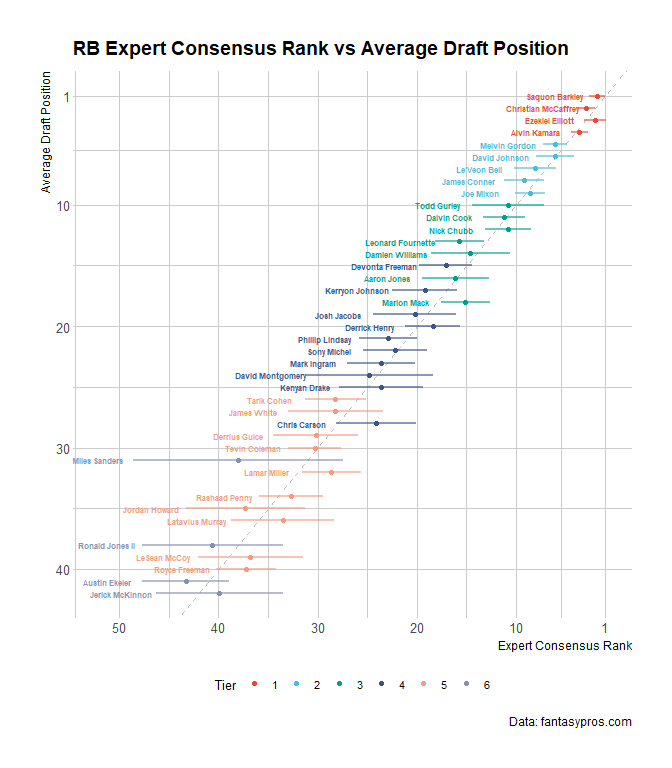
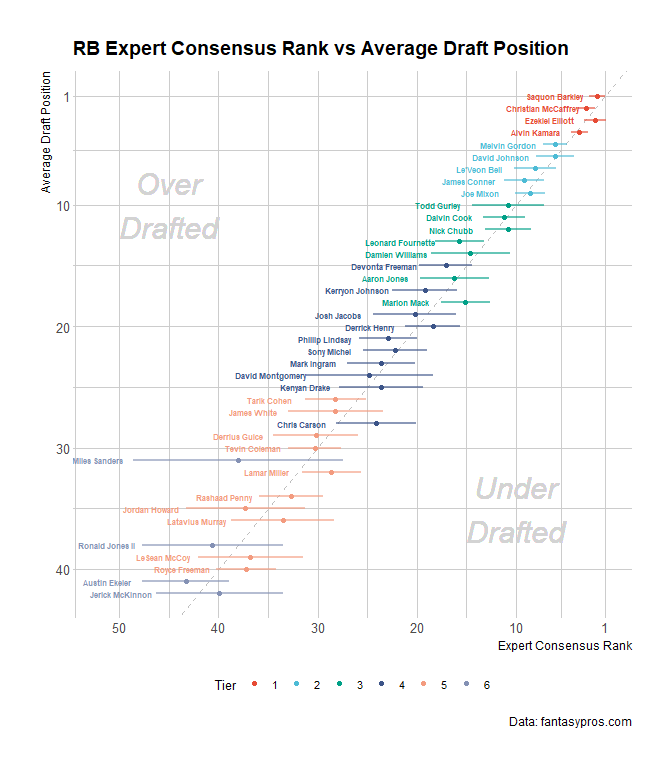
update chart

diff --git a/docs/index.html b/docs/index.html
@@ -96,46 +96,52 @@
 <a class="sourceLine" id="cb3-7" title="7"><span class="st">  </span><span class="kw">ggplot</span>(</a>
 <a class="sourceLine" id="cb3-8" title="8">    <span class="kw">aes</span>(<span class="dt">x =</span> avg, <span class="dt">y =</span> adp, <span class="dt">colour =</span> <span class="kw"><a href="https://www.rdocumentation.org/packages/base/topics/factor">factor</a></span>(tier), <span class="dt">label =</span> player)</a>
 <a class="sourceLine" id="cb3-9" title="9">    ) <span class="op">+</span></a>
-<a class="sourceLine" id="cb3-10" title="10"><span class="st">  </span><span class="kw">geom_errorbarh</span>(</a>
-<a class="sourceLine" id="cb3-11" title="11">    <span class="kw">aes</span>(<span class="dt">xmin =</span> avg <span class="op">-</span><span class="st"> </span>std_dev, <span class="dt">xmax =</span> avg <span class="op">+</span><span class="st"> </span>std_dev), </a>
-<a class="sourceLine" id="cb3-12" title="12">    <span class="dt">height =</span> <span class="dv">0</span>, </a>
-<a class="sourceLine" id="cb3-13" title="13">    <span class="dt">alpha =</span> <span class="fl">0.6</span>, </a>
-<a class="sourceLine" id="cb3-14" title="14">    <span class="dt">size =</span> <span class="fl">0.9</span>,  </a>
-<a class="sourceLine" id="cb3-15" title="15">    <span class="dt">show.legend =</span> <span class="ot">FALSE</span></a>
-<a class="sourceLine" id="cb3-16" title="16">    ) <span class="op">+</span></a>
-<a class="sourceLine" id="cb3-17" title="17"><span class="st">  </span><span class="kw">geom_point</span>(<span class="dt">size =</span> <span class="fl">1.5</span>) <span class="op">+</span></a>
-<a class="sourceLine" id="cb3-18" title="18"><span class="st">  </span><span class="kw">scale_x_reverse</span>(</a>
-<a class="sourceLine" id="cb3-19" title="19">    <span class="dt">breaks =</span> <span class="kw"><a href="https://www.rdocumentation.org/packages/base/topics/c">c</a></span>(<span class="dv">1</span>, <span class="kw"><a href="https://www.rdocumentation.org/packages/base/topics/seq">seq</a></span>(<span class="dv">10</span>,<span class="dv">70</span>, <span class="dv">10</span>))</a>
-<a class="sourceLine" id="cb3-20" title="20">    ) <span class="op">+</span></a>
-<a class="sourceLine" id="cb3-21" title="21"><span class="st">  </span><span class="kw">scale_y_reverse</span>(</a>
-<a class="sourceLine" id="cb3-22" title="22">    <span class="dt">breaks =</span> <span class="kw"><a href="https://www.rdocumentation.org/packages/base/topics/c">c</a></span>(<span class="dv">1</span>, <span class="kw"><a href="https://www.rdocumentation.org/packages/base/topics/seq">seq</a></span>(<span class="dv">10</span>,<span class="dv">60</span>, <span class="dv">10</span>))</a>
-<a class="sourceLine" id="cb3-23" title="23">    ) <span class="op">+</span></a>
-<a class="sourceLine" id="cb3-24" title="24"><span class="st">  </span>ggsci<span class="op">::</span><span class="kw"><a href="https://www.rdocumentation.org/packages/ggsci/topics/scale_npg">scale_color_npg</a></span>() <span class="op">+</span></a>
-<a class="sourceLine" id="cb3-25" title="25"><span class="st">  </span>hrbrthemes<span class="op">::</span><span class="kw"><a href="https://www.rdocumentation.org/packages/hrbrthemes/topics/theme_ipsum_rc">theme_ipsum_rc</a></span>(</a>
-<a class="sourceLine" id="cb3-26" title="26">    <span class="dt">base_size =</span> <span class="dv">10</span>, </a>
-<a class="sourceLine" id="cb3-27" title="27">    <span class="dt">axis_title_size =</span> <span class="dv">9</span>,</a>
-<a class="sourceLine" id="cb3-28" title="28">    <span class="dt">plot_title_size =</span> <span class="dv">14</span></a>
+<a class="sourceLine" id="cb3-10" title="10"><span class="st">  </span><span class="kw">geom_abline</span>(</a>
+<a class="sourceLine" id="cb3-11" title="11">    <span class="dt">slop =</span> <span class="dv">1</span>, </a>
+<a class="sourceLine" id="cb3-12" title="12">    <span class="dt">intercept =</span> <span class="dv">0</span>,</a>
+<a class="sourceLine" id="cb3-13" title="13">    <span class="dt">linetype =</span> <span class="dv">2</span>,</a>
+<a class="sourceLine" id="cb3-14" title="14">    <span class="dt">color =</span> <span class="st">"grey"</span></a>
+<a class="sourceLine" id="cb3-15" title="15">   ) <span class="op">+</span></a>
+<a class="sourceLine" id="cb3-16" title="16"><span class="st">  </span><span class="kw">geom_errorbarh</span>(</a>
+<a class="sourceLine" id="cb3-17" title="17">    <span class="kw">aes</span>(<span class="dt">xmin =</span> avg <span class="op">-</span><span class="st"> </span>std_dev, <span class="dt">xmax =</span> avg <span class="op">+</span><span class="st"> </span>std_dev), </a>
+<a class="sourceLine" id="cb3-18" title="18">    <span class="dt">height =</span> <span class="dv">0</span>, </a>
+<a class="sourceLine" id="cb3-19" title="19">    <span class="dt">alpha =</span> <span class="fl">0.6</span>, </a>
+<a class="sourceLine" id="cb3-20" title="20">    <span class="dt">size =</span> <span class="fl">0.9</span>,  </a>
+<a class="sourceLine" id="cb3-21" title="21">    <span class="dt">show.legend =</span> <span class="ot">FALSE</span></a>
+<a class="sourceLine" id="cb3-22" title="22">    ) <span class="op">+</span></a>
+<a class="sourceLine" id="cb3-23" title="23"><span class="st">  </span><span class="kw">geom_point</span>(<span class="dt">size =</span> <span class="fl">1.5</span>) <span class="op">+</span></a>
+<a class="sourceLine" id="cb3-24" title="24"><span class="st">  </span><span class="kw">scale_x_reverse</span>(</a>
+<a class="sourceLine" id="cb3-25" title="25">    <span class="dt">breaks =</span> <span class="kw"><a href="https://www.rdocumentation.org/packages/base/topics/c">c</a></span>(<span class="dv">1</span>, <span class="kw"><a href="https://www.rdocumentation.org/packages/base/topics/seq">seq</a></span>(<span class="dv">10</span>,<span class="dv">70</span>, <span class="dv">10</span>))</a>
+<a class="sourceLine" id="cb3-26" title="26">    ) <span class="op">+</span></a>
+<a class="sourceLine" id="cb3-27" title="27"><span class="st">  </span><span class="kw">scale_y_reverse</span>(</a>
+<a class="sourceLine" id="cb3-28" title="28">    <span class="dt">breaks =</span> <span class="kw"><a href="https://www.rdocumentation.org/packages/base/topics/c">c</a></span>(<span class="dv">1</span>, <span class="kw"><a href="https://www.rdocumentation.org/packages/base/topics/seq">seq</a></span>(<span class="dv">10</span>,<span class="dv">60</span>, <span class="dv">10</span>))</a>
 <a class="sourceLine" id="cb3-29" title="29">    ) <span class="op">+</span></a>
-<a class="sourceLine" id="cb3-30" title="30"><span class="st">  </span><span class="kw">labs</span>(</a>
-<a class="sourceLine" id="cb3-31" title="31">    <span class="dt">title  =</span> <span class="st">"RB Expert Consensus Rank vs Average Draft Position"</span>,</a>
-<a class="sourceLine" id="cb3-32" title="32">    <span class="dt">colour =</span> <span class="st">"Tier"</span>,</a>
-<a class="sourceLine" id="cb3-33" title="33">    <span class="dt">x      =</span> <span class="st">"Expert Consensus Rank"</span>,</a>
-<a class="sourceLine" id="cb3-34" title="34">    <span class="dt">y       =</span> <span class="st">"Average Draft Position"</span>,</a>
-<a class="sourceLine" id="cb3-35" title="35">    <span class="dt">caption =</span> <span class="st">"Data: fantasypros.com"</span></a>
-<a class="sourceLine" id="cb3-36" title="36">  ) <span class="op">+</span><span class="st"> </span></a>
-<a class="sourceLine" id="cb3-37" title="37"><span class="st">  </span><span class="kw">geom_text</span>(</a>
-<a class="sourceLine" id="cb3-38" title="38">    <span class="kw">aes</span>(<span class="dt">x =</span> avg <span class="op">+</span><span class="st"> </span>std_dev), </a>
-<a class="sourceLine" id="cb3-39" title="39">    <span class="dt">size =</span> <span class="dv">2</span>, </a>
-<a class="sourceLine" id="cb3-40" title="40">    <span class="dt">nudge_x =</span> <span class="fl">-3.5</span>, </a>
-<a class="sourceLine" id="cb3-41" title="41">    <span class="dt">show.legend =</span> <span class="ot">FALSE</span>,</a>
-<a class="sourceLine" id="cb3-42" title="42">    <span class="dt">fontface =</span> <span class="st">"bold"</span></a>
-<a class="sourceLine" id="cb3-43" title="43">    ) <span class="op">+</span></a>
-<a class="sourceLine" id="cb3-44" title="44"><span class="st">  </span><span class="kw">theme</span>(</a>
-<a class="sourceLine" id="cb3-45" title="45">    <span class="dt">legend.position =</span> <span class="st">"bottom"</span>,</a>
-<a class="sourceLine" id="cb3-46" title="46">    ) <span class="op">+</span></a>
-<a class="sourceLine" id="cb3-47" title="47"><span class="st">  </span><span class="kw">guides</span>(</a>
-<a class="sourceLine" id="cb3-48" title="48">    <span class="dt">colour =</span> <span class="kw">guide_legend</span>(<span class="dt">nrow =</span> <span class="dv">1</span>)</a>
-<a class="sourceLine" id="cb3-49" title="49">    )</a></code></pre></div>
+<a class="sourceLine" id="cb3-30" title="30"><span class="st">  </span>ggsci<span class="op">::</span><span class="kw"><a href="https://www.rdocumentation.org/packages/ggsci/topics/scale_npg">scale_color_npg</a></span>() <span class="op">+</span></a>
+<a class="sourceLine" id="cb3-31" title="31"><span class="st">  </span>hrbrthemes<span class="op">::</span><span class="kw"><a href="https://www.rdocumentation.org/packages/hrbrthemes/topics/theme_ipsum_rc">theme_ipsum_rc</a></span>(</a>
+<a class="sourceLine" id="cb3-32" title="32">    <span class="dt">base_size =</span> <span class="dv">10</span>, </a>
+<a class="sourceLine" id="cb3-33" title="33">    <span class="dt">axis_title_size =</span> <span class="dv">9</span>,</a>
+<a class="sourceLine" id="cb3-34" title="34">    <span class="dt">plot_title_size =</span> <span class="dv">14</span></a>
+<a class="sourceLine" id="cb3-35" title="35">    ) <span class="op">+</span></a>
+<a class="sourceLine" id="cb3-36" title="36"><span class="st">  </span><span class="kw">labs</span>(</a>
+<a class="sourceLine" id="cb3-37" title="37">    <span class="dt">title  =</span> <span class="st">"RB Expert Consensus Rank vs Average Draft Position"</span>,</a>
+<a class="sourceLine" id="cb3-38" title="38">    <span class="dt">colour =</span> <span class="st">"Tier"</span>,</a>
+<a class="sourceLine" id="cb3-39" title="39">    <span class="dt">x      =</span> <span class="st">"Expert Consensus Rank"</span>,</a>
+<a class="sourceLine" id="cb3-40" title="40">    <span class="dt">y       =</span> <span class="st">"Average Draft Position"</span>,</a>
+<a class="sourceLine" id="cb3-41" title="41">    <span class="dt">caption =</span> <span class="st">"Data: fantasypros.com"</span></a>
+<a class="sourceLine" id="cb3-42" title="42">  ) <span class="op">+</span><span class="st"> </span></a>
+<a class="sourceLine" id="cb3-43" title="43"><span class="st">  </span><span class="kw">geom_text</span>(</a>
+<a class="sourceLine" id="cb3-44" title="44">    <span class="kw">aes</span>(<span class="dt">x =</span> avg <span class="op">+</span><span class="st"> </span>std_dev), </a>
+<a class="sourceLine" id="cb3-45" title="45">    <span class="dt">size =</span> <span class="dv">2</span>, </a>
+<a class="sourceLine" id="cb3-46" title="46">    <span class="dt">nudge_x =</span> <span class="fl">-3.5</span>, </a>
+<a class="sourceLine" id="cb3-47" title="47">    <span class="dt">show.legend =</span> <span class="ot">FALSE</span>,</a>
+<a class="sourceLine" id="cb3-48" title="48">    <span class="dt">fontface =</span> <span class="st">"bold"</span></a>
+<a class="sourceLine" id="cb3-49" title="49">    ) <span class="op">+</span></a>
+<a class="sourceLine" id="cb3-50" title="50"><span class="st">  </span><span class="kw">theme</span>(</a>
+<a class="sourceLine" id="cb3-51" title="51">    <span class="dt">legend.position =</span> <span class="st">"bottom"</span>,</a>
+<a class="sourceLine" id="cb3-52" title="52">    ) <span class="op">+</span></a>
+<a class="sourceLine" id="cb3-53" title="53"><span class="st">  </span><span class="kw">guides</span>(</a>
+<a class="sourceLine" id="cb3-54" title="54">    <span class="dt">colour =</span> <span class="kw">guide_legend</span>(<span class="dt">nrow =</span> <span class="dv">1</span>)</a>
+<a class="sourceLine" id="cb3-55" title="55">    )</a></code></pre></div>
 <p><img src="reference/figures/README-rb-erc-chart-1.png" width="100%"></p>
 </div>
 <div id="weekly-snap-counts" class="section level2">

diff --git a/README.md b/README.md
@@ -46,37 +46,37 @@ fp_draft_rankings("RB") %>%
   filter(rank <= 40) %>%
   ggplot(
     aes(x = avg, y = adp, colour = factor(tier), label = player)
-    ) +
+  ) +
   geom_abline(
     slop = 1, 
     intercept = 0,
     linetype = 2,
     color = "grey"
-   ) +
+  ) +
   geom_errorbarh(
     aes(xmin = avg - std_dev, xmax = avg + std_dev), 
     height = 0, 
     alpha = 0.6, 
     size = 0.9,  
     show.legend = FALSE
-    ) +
+  ) +
   geom_point(size = 1.5) +
   scale_x_reverse(
     breaks = c(1, seq(10,70, 10))
-    ) +
+  ) +
   scale_y_reverse(
     breaks = c(1, seq(10,60, 10))
-    ) +
+  ) +
   ggsci::scale_color_npg() +
   hrbrthemes::theme_ipsum_rc(
     base_size = 10, 
     axis_title_size = 9,
     plot_title_size = 14
-    ) +
+  ) +
   labs(
-    title  = "RB Expert Consensus Rank vs Average Draft Position",
-    colour = "Tier",
-    x      = "Expert Consensus Rank",
+    title   = "RB Expert Consensus Rank vs Average Draft Position",
+    colour  = "Tier",
+    x       = "Expert Consensus Rank",
     y       = "Average Draft Position",
     caption = "Data: fantasypros.com"
   ) + 
@@ -86,13 +86,21 @@ fp_draft_rankings("RB") %>%
     nudge_x = -3.5, 
     show.legend = FALSE,
     fontface = "bold"
-    ) +
+  ) +
+  geom_text(
+    aes(x = 10, y = 35), label = "Under\nDrafted", color = "light grey", 
+    size = 8, family = "Roboto Condensed", fontface = "italic"
+  ) +
+  geom_text(
+    aes(x = 45, y = 10), label = "Over\nDrafted", color = "light grey", 
+    size = 8, family = "Roboto Condensed", fontface = "italic"
+  ) +
   theme(
     legend.position = "bottom",
-    ) +
+  ) +
   guides(
     colour = guide_legend(nrow = 1)
-    )
+  )
 ```
 
 <img src="man/figures/README-rb-erc-chart-1.png" width="100%" />
